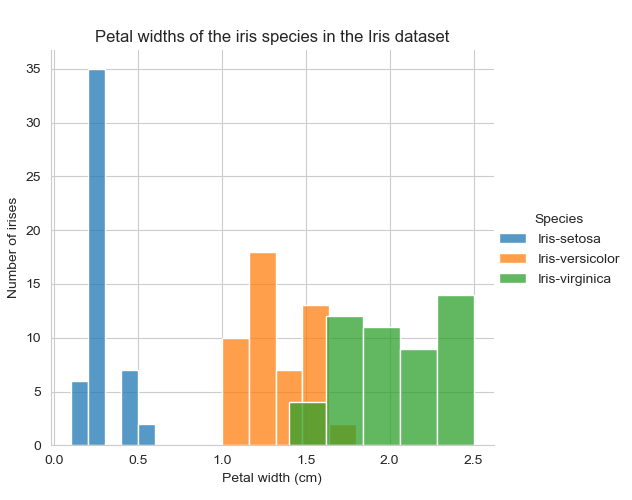
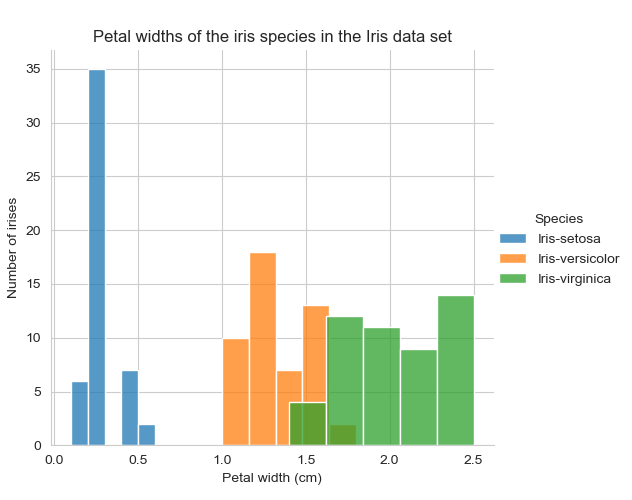
Project 2021

Changed region(s): [[0.1503, 0.06, 0.7215, 0.09]]

diff --git a/pands-project2021/summary.py b/pands-project2021/summary.py
@@ -1,10 +1,10 @@
 with open ('C:\\Users\\amand\\Desktop\\GMIT\\Programming\\pands-project2021\\summaryofvariables.txt', "w") as f:
-    data = f.write("In the Iris dataset we have 5 individual variables:\n"),
+    data = f.write("In the Iris data set we have 5 individual variables:\n"),
     data = f.write("1. Petal length in centimetres\n"),
     data = f.write("2. Petal width in centimetres\n"),
     data = f.write("3. Sepal length in centimetres\n"),
     data = f.write("4. Sepal width in centimetres\n"),
-    data = f.write("5. Class (the species of iris flowers from the Iris dataset)\n"),
+    data = f.write("5. Class (the species of iris flowers from the Iris data set)\n"),
     data = f.write("\n"),
     data = f.write("Here is a summary of each of the variables we will be reviewing in this project.\n"),
     data = f.write("\n"),
@@ -25,7 +25,7 @@ with open ('C:\\Users\\amand\\Desktop\\GMIT\\Programming\\pands-project2021\\sum
     data = f.write("Iris-setosa, Iris-versicolor and Iris-virginica.\n"),
     data = f.write("\n"),
     data = f.write("Class:\n"),
-    data = f.write("This is a list of 150 names of the Iris species in the dataset: Iris-setosa, Iris-versicolor and Iris-virginica.\n"),
+    data = f.write("This is a list of 150 names of the Iris species in the data set: Iris-setosa, Iris-versicolor and Iris-virginica.\n"),
     data = f.write("There are 50 of Iris-setosa, 50 of Iris-versicolor and 50 of Iris-virginica.\n"),
     data = f.write("\n"),
     data = f.write("Using Matplotlib, Pandas and Seaborn:\n"),

diff --git a/pands-project2021/class.py b/pands-project2021/class.py
@@ -5,9 +5,9 @@ import seaborn as sns
 data = pd.read_csv('C:\\Users\\amand\\Desktop\\GMIT\\Programming\\pands-project2021\\iris.csv')
 sns.set_style("whitegrid")
 sns.FacetGrid(data, hue = 'class', height = 5).map(sns.histplot, 'class', binwidth = 3).add_legend(title = 'Species')
-plt.title ('Varieties of iris species in the Iris dataset')
+plt.title ('Varieties of iris species in the Iris data set')
 plt.xlabel ('Species')
 plt.ylabel ('Number of irises')
 plt.subplots_adjust (top=.9)
-plt.savefig ('C:\\Users\\amand\\Desktop\\GMIT\\Programming\\pands-project2021\\iris_species.png')
+plt.savefig ('C:\\Users\\amand\\Desktop\\GMIT\\Programming\\pands-project2021\\class.png')
 plt.show()

diff --git a/pands-project2021/scatterlength.py b/pands-project2021/scatterlength.py
@@ -5,7 +5,7 @@ import seaborn as sns
 data = pd.read_csv('C:\\Users\\amand\\Desktop\\GMIT\\Programming\\pands-project2021\\iris.csv')
 sns.set_style("white")
 sns.FacetGrid(data, hue = 'class', height = 5).map(sns.scatterplot, 'petal_length', 'sepal_length', s = 100).add_legend(title = 'Species')
-plt.title ('Petal and sepal lengths of the iris species in the Iris dataset')
+plt.title ('Petal and sepal lengths of the iris species in the Iris data set')
 plt.xlabel ('Petal length (cm)')
 plt.ylabel ('Sepal length (cm)')
 plt.subplots_adjust (top=.9)

diff --git a/pands-project2021/scatterpetals.py b/pands-project2021/scatterpetals.py
@@ -5,7 +5,7 @@ import seaborn as sns
 data = pd.read_csv('C:\\Users\\amand\\Desktop\\GMIT\\Programming\\pands-project2021\\iris.csv')
 sns.set_style("white")
 sns.FacetGrid(data, hue = 'class', height = 5).map(sns.scatterplot, 'petal_length', 'petal_width', s = 100).add_legend(title = 'Species')
-plt.title ('Petal lengths and widths of the iris species in the Iris dataset')
+plt.title ('Petal lengths and widths of the iris species in the Iris data set')
 plt.xlabel ('Petal length (cm)')
 plt.ylabel ('Petal width (cm)')
 plt.subplots_adjust (top=.9)

diff --git a/pands-project2021/scattersepals.py b/pands-project2021/scattersepals.py
@@ -5,7 +5,7 @@ import seaborn as sns
 data = pd.read_csv('C:\\Users\\amand\\Desktop\\GMIT\\Programming\\pands-project2021\\iris.csv')
 sns.set_style("white")
 sns.FacetGrid(data, hue = 'class', height = 5).map(sns.scatterplot, 'sepal_length', 'sepal_width', s = 100).add_legend(title = 'Species')
-plt.title ('Sepal lengths and widths of the iris species in the Iris dataset')
+plt.title ('Sepal lengths and widths of the iris species in the Iris data set')
 plt.xlabel ('Sepal length (cm)')
 plt.ylabel ('Sepal width (cm)')
 plt.subplots_adjust (top=.9)

diff --git a/pands-project2021/scatterwidth.py b/pands-project2021/scatterwidth.py
@@ -5,7 +5,7 @@ import seaborn as sns
 data = pd.read_csv('C:\\Users\\amand\\Desktop\\GMIT\\Programming\\pands-project2021\\iris.csv')
 sns.set_style("white")
 sns.FacetGrid(data, hue = 'class', height = 5).map(sns.scatterplot, 'petal_width', 'sepal_width', s = 100).add_legend(title = 'Species')
-plt.title ('Petal and sepal widths of the iris species in the Iris dataset')
+plt.title ('Petal and sepal widths of the iris species in the Iris data set')
 plt.xlabel ('Petal width (cm)')
 plt.ylabel ('Sepal width (cm)')
 plt.subplots_adjust (top=.9)

diff --git a/pands-project2021/petallength.py b/pands-project2021/petallength.py
@@ -5,7 +5,7 @@ import seaborn as sns
 data = pd.read_csv('C:\\Users\\amand\\Desktop\\GMIT\\Programming\\pands-project2021\\iris.csv')
 sns.set_style("whitegrid")
 sns.FacetGrid(data, hue = 'class', height = 5).map(sns.histplot, 'petal_length', bins = 5).add_legend(title = 'Species')
-plt.title ('Petal lengths of the iris species in the Iris dataset')
+plt.title ('Petal lengths of the iris species in the Iris data set')
 plt.xlabel ('Petal length (cm)')
 plt.ylabel ('Number of irises')
 plt.subplots_adjust (top=.9)

diff --git a/pands-project2021/sepallength.py b/pands-project2021/sepallength.py
@@ -5,7 +5,7 @@ import seaborn as sns
 data = pd.read_csv('C:\\Users\\amand\\Desktop\\GMIT\\Programming\\pands-project2021\\iris.csv')
 sns.set_style("whitegrid")
 sns.FacetGrid(data, hue = 'class', height = 5).map(sns.histplot, 'sepal_length', bins = 5).add_legend(title = 'Species')
-plt.title ('Sepal lengths of the iris species in the Iris dataset')
+plt.title ('Sepal lengths of the iris species in the Iris data set')
 plt.xlabel ('Sepal length (cm)')
 plt.ylabel ('Number of irises')
 plt.subplots_adjust (top=.9)

diff --git a/pands-project2021/petalwidth.py b/pands-project2021/petalwidth.py
@@ -5,7 +5,7 @@ import seaborn as sns
 data = pd.read_csv('C:\\Users\\amand\\Desktop\\GMIT\\Programming\\pands-project2021\\iris.csv')
 sns.set_style("whitegrid")
 sns.FacetGrid(data, hue = 'class', height = 5).map(sns.histplot, 'petal_width', bins = 5).add_legend(title = 'Species')
-plt.title ('Petal widths of the iris species in the Iris dataset')
+plt.title ('Petal widths of the iris species in the Iris data set')
 plt.xlabel ('Petal width (cm)')
 plt.ylabel ('Number of irises')
 plt.subplots_adjust (top=.9)

diff --git a/pands-project2021/sepalwidth.py b/pands-project2021/sepalwidth.py
@@ -5,7 +5,7 @@ import seaborn as sns
 data = pd.read_csv('C:\\Users\\amand\\Desktop\\GMIT\\Programming\\pands-project2021\\iris.csv')
 sns.set_style("whitegrid")
 sns.FacetGrid(data, hue = 'class', height = 5).map(sns.histplot, 'sepal_width', bins = 5).add_legend(title = 'Species')
-plt.title ('Sepal widths of the iris species in the Iris dataset')
+plt.title ('Sepal widths of the iris species in the Iris data set')
 plt.xlabel ('Sepal width (cm)')
 plt.ylabel ('Number of irises')
 plt.subplots_adjust (top=.9)
